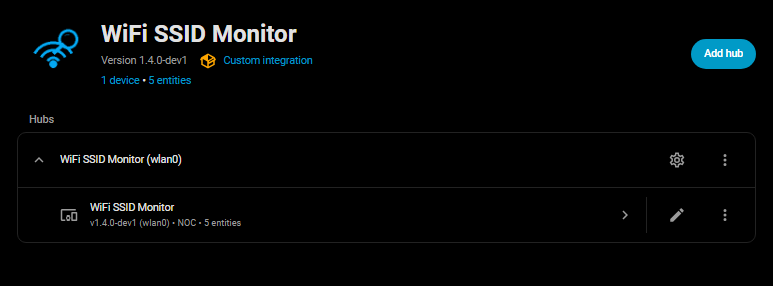
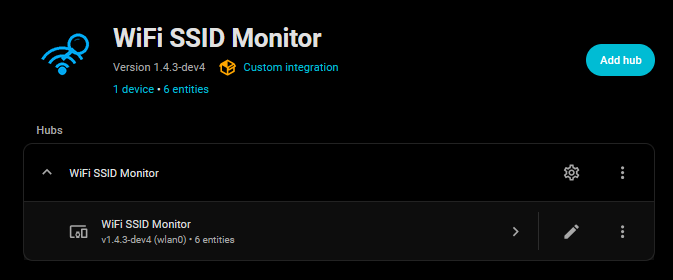
v1.4.3-dev5 Docs

diff --git a/README.md b/README.md
@@ -12,7 +12,7 @@ A Home Assistant integration that monitors and reports on WiFi networks in your 
 - **Dynamic Polling Control**: Adjust the scan frequency directly from the Home Assistant UI or via automation.
 - **Auto-detected Interface**: Interface names (e.g., `wlan0`) are automatically populated during setup where available. This can be entered manually if auto-detection is not successful
 
-## 📋 System Requirements
+## 🔧 Compatibility & Requirements
 
 **Important:** This integration requires your Home Assistant system to have **WiFi capabilities**.
 
@@ -28,11 +28,11 @@ Monitor for unexpected WiFi networks in your environment that could indicate una
 
 ```yaml
 alias: "Alert on Rogue WiFi Network"
-trigger:
-  platform: state
+triggers:
+  trigger: state
   entity_id: binary_sensor.wifi_ssid_monitor_new_network_alert
   to: "on"
-action:
+actions:
   action: notify.mobile_app_phone
   data:
     message: "Unknown WiFi network detected: {{ states('sensor.wifi_ssid_monitor_unknown_count') }} unknown network(s) found"
@@ -75,8 +75,8 @@ Track whether your own WiFi networks remain online. By listing your personal SSI
 
 ```yaml
 alias: "Alert if Home WiFi Offline"
-trigger:
-  platform: numeric_state
+triggers:
+  trigger: numeric_state
   entity_id: sensor.wifi_ssid_monitor_total_count
   below: 2
   for:
@@ -90,6 +90,88 @@ actions:
     data:
       message: "WiFi network count has dropped — a home network may be offline"
 ```
+
+## 📊 What You Get
+
+This integration provides **6 entities**, as follows:
+
+### Sensors
+
+| Entity | Type | Description |
+| --- | --- | --- |
+| `sensor.wifi_ssid_monitor_total_count` | Measurement | Total number of detected WiFi networks |
+| `sensor.wifi_ssid_monitor_unknown_count` | Measurement | Count of networks not in your known list |
+| `sensor.wifi_ssid_monitor_last_updated` | Diagnostic | Timestamp of the last successful WiFi scan |
+| `sensor.wifi_ssid_monitor_interface` | Diagnostic | Name of the monitored WiFi interface |
+
+**Attributes:** The total and unknown count sensors include SSID attributes:
+
+- `ssids`: List of all detected (`total`) or unknown (`unknown`) network names
+
+### Binary Sensors
+
+| Entity | Description |
+| --- | --- |
+| `binary_sensor.wifi_ssid_monitor_new_network_alert` | On when unknown networks are detected; Off when all detected networks are known |
+
+### Number Entities
+
+| Entity                                   | Description                               |
+| ---------------------------------------- | ----------------------------------------- |
+| `number.wifi_ssid_monitor_scan_interval` | Adjustable scan frequency (1–180 minutes) |
+
+**Example automation:**
+
+```yaml
+alias: "WiFi: Set Scan Interval Based on Time"
+description: "Adjusts SSID scan interval for day and evening cycles"
+mode: single
+triggers:
+  - platform: time
+    at: "08:00:00"
+    id: "day"
+  - platform: time
+    at: "18:00:00"
+    id: "evening"
+actions:
+  - choose:
+      - conditions:
+          - condition: trigger
+            id: "day"
+        sequence:
+          - action: number.set_value
+            target:
+              entity_id: number.wifi_ssid_monitor_scan_interval
+            data:
+              value: 10
+      - conditions:
+          - condition: trigger
+            id: "evening"
+        sequence:
+          - action: number.set_value
+            target:
+              entity_id: number.wifi_ssid_monitor_scan_interval
+            data:
+              value: 20
+```
+
+## 📸 Screenshots
+
+### Integration Screen
+
+![Integration Overview](.github/images/wifi_ssid_mon_integration_screen.png)
+
+### Sensors
+
+![Sensor Entities](.github/images/wifi_ssid_mon_sensors_screen.png)
+
+### Setup Screen
+
+![Setup](.github/images/wifi_ssid_mon_setup_screen.png)
+
+### Network Interface Configuration
+
+![Interface Configuration](.github/images/wlan_name_sys_netw.png)
 
 ## ✨ Installation
 
@@ -141,85 +223,7 @@ After installation, you can modify settings via the integration's **Configure** 
 > 3. Your WiFi interface will typically be listed as `wlan0`, `wlan1`, `wlp2s0`, or similar
 > 4. During setup, the integration will attempt to auto-detect available WiFi interfaces
 
-## 📊 What You Get
-
-This integration provides **6 entities**, as follows:
-
-### Sensors
-
-| Entity | Type | Description |
-| --- | --- | --- |
-| `sensor.wifi_ssid_monitor_total_count` | Measurement | Total number of detected WiFi networks |
-| `sensor.wifi_ssid_monitor_unknown_count` | Measurement | Count of networks not in your known list |
-| `sensor.wifi_ssid_monitor_last_updated` | Diagnostic | Timestamp of the last successful WiFi scan |
-| `sensor.wifi_ssid_monitor_interface` | Diagnostic | Name of the monitored WiFi interface |
-
-**Attributes:** The total and unknown count sensors include SSID attributes:
-
-- `ssids`: List of all detected (`total`) or unknown (`unknown`) network names
-
-### Binary Sensors
-
-| Entity | Description |
-| --- | --- |
-| `binary_sensor.wifi_ssid_monitor_new_network_alert` | On when unknown networks are detected; Off when all detected networks are known |
-
-### Number Entities
-
-| Entity                                   | Description                               |
-| ---------------------------------------- | ----------------------------------------- |
-| `number.wifi_ssid_monitor_scan_interval` | Adjustable scan frequency (1–180 minutes) |
-
-**Example automation:**
-
-```yaml
-alias: "WiFi: Set Scan Interval Based on Time"
-description: "Adjusts SSID scan interval for day and evening cycles"
-mode: single
-trigger:
-  - platform: time
-    at: "08:00:00"
-    id: "day"
-  - platform: time
-    at: "18:00:00"
-    id: "evening"
-actions:
-  - choose:
-      - conditions:
-          - condition: trigger
-            id: "day"
-        sequence:
-          - action: number.set_value
-            target:
-              entity_id: number.wifi_ssid_monitor_scan_interval
-            data:
-              value: 10
-      - conditions:
-          - condition: trigger
-            id: "evening"
-        sequence:
-          - action: number.set_value
-            target:
-              entity_id: number.wifi_ssid_monitor_scan_interval
-            data:
-              value: 20
-```
-
-## 📸 Screenshots
-
-### Integration Overview
-
-![Integration Overview](.github/images/wifi_ssid_mon_integration_screen.png)
-
-### Sensor Display
-
-![Sensor Entities](.github/images/wifi_ssid_mon_sensors_screen.png)
-
-### Network Interface Configuration
-
-![Interface Configuration](.github/images/wlan_name_sys_netw.png)
-
-## 🔧 Troubleshooting
+## ❓ FAQ & Troubleshooting
 
 ### Integration Fails to Load
 
@@ -237,11 +241,25 @@ actions:
 - Check that networks are broadcasting in your vicinity
 - Review the Home Assistant logs for detailed error messages
 
-## ⚠️ Known Limitations
+## 🗑️ Removal
 
-### Hidden Networks (No Broadcasted SSID)
+To remove the integration from Home Assistant:
 
-WiFi access points that do not broadcast an SSID are grouped together as a single `[hidden]` entry in the network count and SSID lists. If multiple hidden networks are present in your area, the total count will reflect only one `[hidden]` entry regardless of how many physical hidden APs are detected. This is a limitation of the current implementation — hidden networks cannot be individually identified without SSID data.
+1. Go to **Settings > Devices & Services**.
+2. Find the **WiFI SSID Monitor** card and click into it.
+3. Click the **three dots** (⋮) next to the gear icon and select **Delete**.
+4. Confirm deletion.
+
+To fully uninstall (HACS):
+
+1. Go to **HACS > Integrations**.
+2. Find the **WiFI SSID Monitor** and click into it.
+3. Click the **three dots** (⋮) at the top right and select **Remove**.
+4. Restart Home Assistant.
+
+## ⚠️ Known Limitations /❔ What's Missing?
+
+- **Hidden Networks (No Broadcasted SSID)**: WiFi access points that do not broadcast an SSID are grouped together as a single `[hidden]` entry in the network count and SSID lists. If multiple hidden networks are present in your area, the total count will reflect only one `[hidden]` entry regardless of how many physical hidden APs are detected. This is a limitation of the current implementation — hidden networks cannot be individually identified without SSID data.
 
 ## 📝 Maintenance Status
 